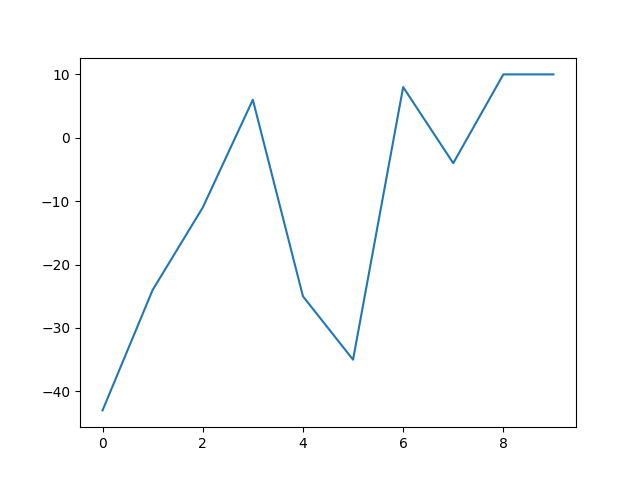
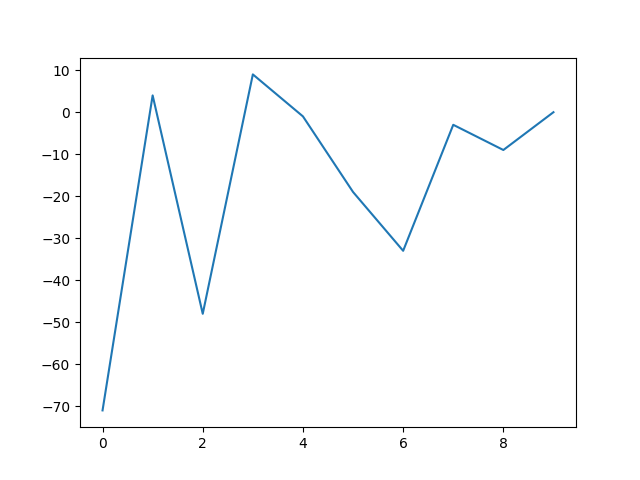
6.2 working with plot of mean -17.1

diff --git a/ex06-planpy.py b/ex06-planpy.py
@@ -53,6 +53,7 @@ def epsilon_greedy(action_qs, epsilon):
 def mcts(env, root, maxiter=500):
     """ TODO: Use this function as a starting point for implementing Monte Carlo Tree Search
     """
+    global all_treedepths
 
     if False:
         mcts_notree(env, root, maxiter)
@@ -60,6 +61,7 @@ def mcts(env, root, maxiter=500):
 
     # this is an example of how to add nodes to the root for all possible actions:
     root.children = [Node(root, a) for a in range(env.action_space.n)]
+    treedepths = []
 
     for _ in range(maxiter):
         state = copy.deepcopy(env)
@@ -67,11 +69,16 @@ def mcts(env, root, maxiter=500):
 
         # TODO: traverse the tree using an epsilon greedy tree policy
         node = root
-        while len(node.children) > 0:
+        terminal = False
+        iter_treedepth = 0
+        while len(node.children) > 0 and not terminal:
             values = [((c.sum_value/c.visits) if c.visits != 0 else 0) for c in node.children]  # calculate values for child actions
-            node = node.children[epsilon_greedy(values, 0.5)]
+            node = node.children[epsilon_greedy(values, 0.4)]
             _, reward, terminal, _ = state.step(node.action)
             G += reward
+            iter_treedepth += 1
+
+        treedepths.append(iter_treedepth)
 
         # TODO: Expansion of tree
         if not terminal:
@@ -88,8 +95,16 @@ def mcts(env, root, maxiter=500):
 
             node = node.parent
 
+    print(treedepths)
+    all_treedepths.append(max(treedepths))
+    print(max(treedepths))
+
+
+all_treedepths = []
+
 
 def main():
+    global all_treedepths
     env = gym.make("Taxi-v3")
     env.seed(0)  # use seed to make results better comparable
     # run the algorithm 10 times:
@@ -111,6 +126,10 @@ def main():
             sum_reward += reward
         rewards.append(sum_reward)
         print("finished run " + str(i+1) + " with reward: " + str(sum_reward))
+        plt.plot(range(len(all_treedepths)), all_treedepths, label=str(i))
+        all_treedepths = []
+    plt.legend()
+    plt.show()
     print("mean reward: ", np.mean(rewards))
     plot(range(len(rewards)), rewards)
 
